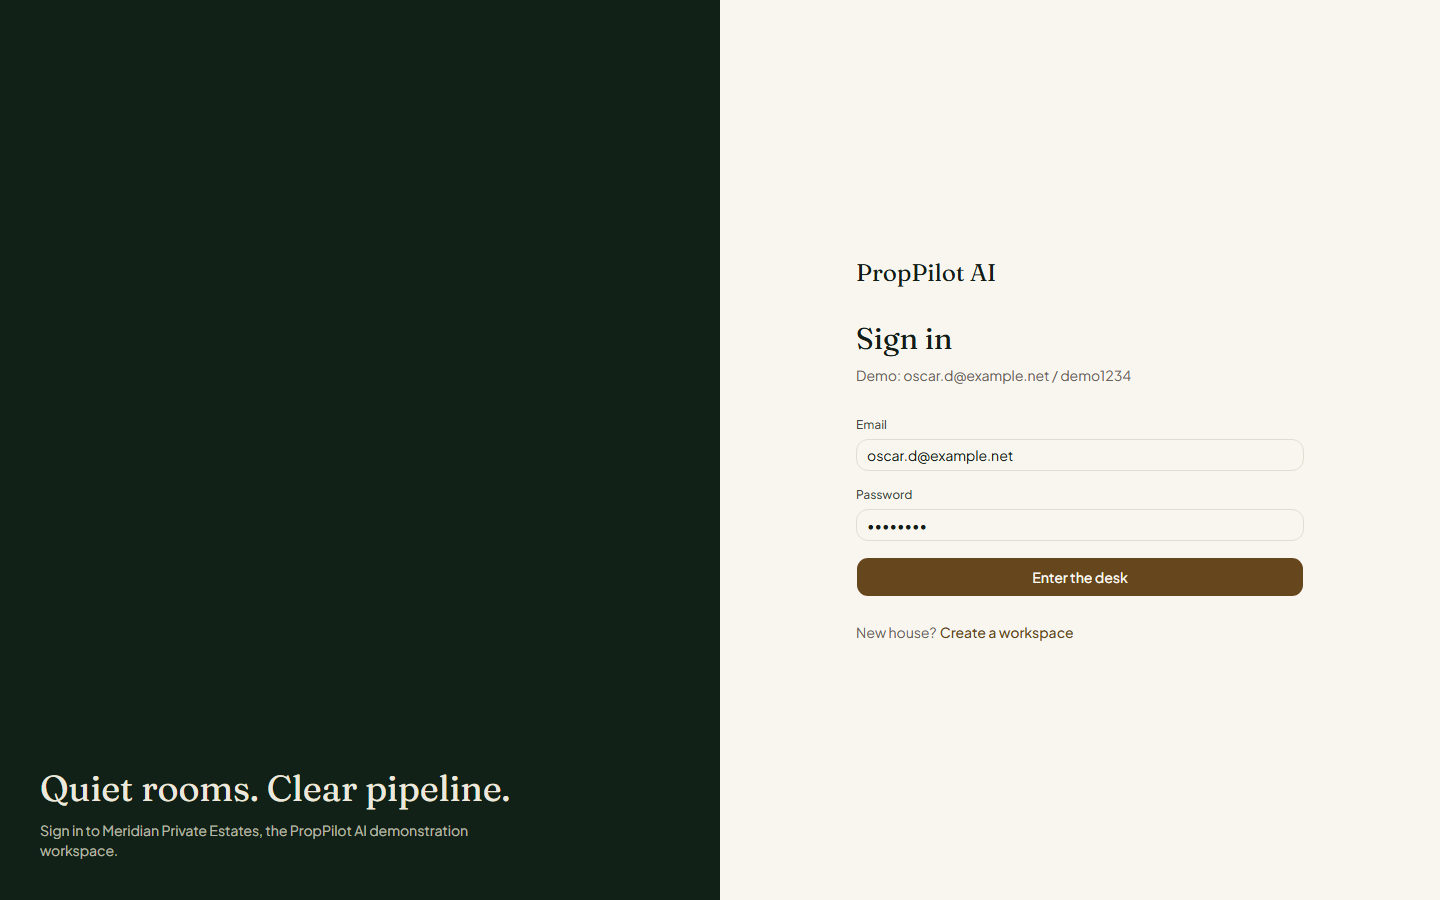
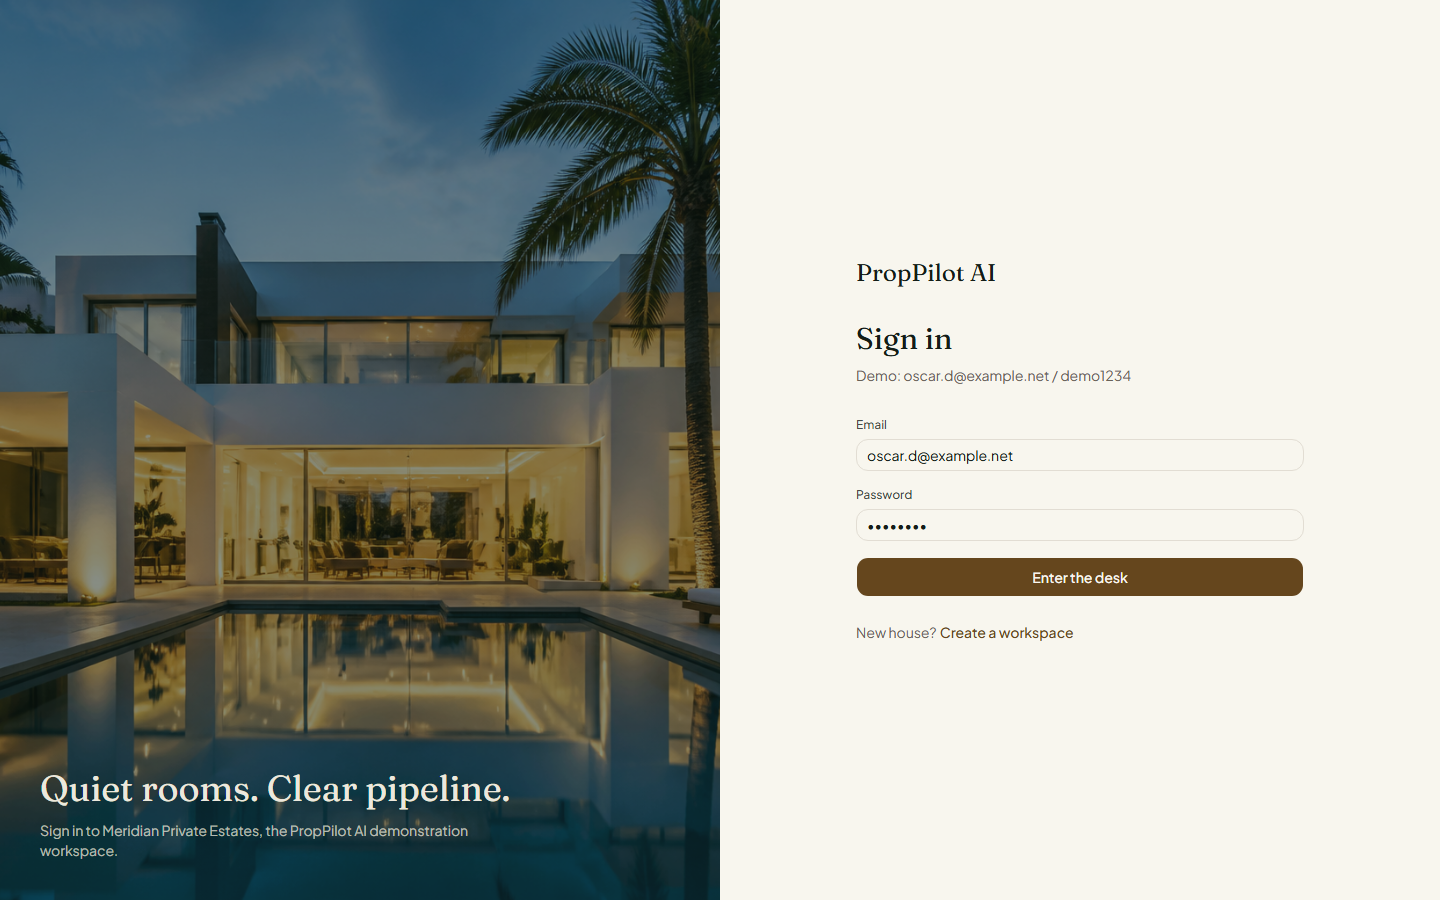
Show listing photography in GitHub screenshots by serving photos locally.

diff --git a/src/lib/demo-data.ts b/src/lib/demo-data.ts
@@ -25,30 +25,14 @@ function iso(daysFromToday: number, hour = 10, minute = 0) {
 }
 
 const PHOTO = [
-  "https://images.unsplash.com/photo-1600596542815-ffad4c1539a9?auto=format&fit=crop&w=1800&q=80",
-  "https://images.unsplash.com/photo-1600585154340-be6161a56a0c?auto=format&fit=crop&w=1800&q=80",
-  "https://images.unsplash.com/photo-1600607687939-ce8a6c25118c?auto=format&fit=crop&w=1800&q=80",
-  "https://images.unsplash.com/photo-1613490493576-7fde63acd811?auto=format&fit=crop&w=1800&q=80",
-  "https://images.unsplash.com/photo-1512917774080-9991f1c4c750?auto=format&fit=crop&w=1800&q=80",
-  "https://images.unsplash.com/photo-1600047509807-ba8f99d2cdbc?auto=format&fit=crop&w=1800&q=80",
-  "https://images.unsplash.com/photo-1600566753190-17f0baa2a6c3?auto=format&fit=crop&w=1800&q=80",
-  "https://images.unsplash.com/photo-1600573472592-401b489a3cdc?auto=format&fit=crop&w=1800&q=80",
-  "https://images.unsplash.com/photo-1600210492486-724fe5c67fb0?auto=format&fit=crop&w=1800&q=80",
-  "https://images.unsplash.com/photo-1560448204-e02f11c3d0e2?auto=format&fit=crop&w=1800&q=80",
-  "https://images.unsplash.com/photo-1502672260266-1c1ef2d93688?auto=format&fit=crop&w=1800&q=80",
-  "https://images.unsplash.com/photo-1605276374104-dee2a0ed3cd6?auto=format&fit=crop&w=1800&q=80",
-  "https://images.unsplash.com/photo-1570129477492-45c003edd2be?auto=format&fit=crop&w=1800&q=80",
-  "https://images.unsplash.com/photo-1580587771525-78b9dba3b914?auto=format&fit=crop&w=1800&q=80",
-  "https://images.unsplash.com/photo-1600047509358-9dc75507daeb?auto=format&fit=crop&w=1800&q=80",
-  "https://images.unsplash.com/photo-1600585154526-990dced4db0d?auto=format&fit=crop&w=1800&q=80",
-  "https://images.unsplash.com/photo-1600607687644-c7171b42498b?auto=format&fit=crop&w=1800&q=80",
-  "https://images.unsplash.com/photo-1600566753086-00f18fb6b3ea?auto=format&fit=crop&w=1800&q=80",
-  "https://images.unsplash.com/photo-1613977257363-707ba9348227?auto=format&fit=crop&w=1800&q=80",
-  "https://images.unsplash.com/photo-1513584684374-8bab748fbf90?auto=format&fit=crop&w=1800&q=80",
-  "https://images.unsplash.com/photo-1600607687920-4e2a09cf159d?auto=format&fit=crop&w=1800&q=80",
-  "https://images.unsplash.com/photo-1600047509782-20d39509f26d?auto=format&fit=crop&w=1800&q=80",
-  "https://images.unsplash.com/photo-1600585154084-4e5fe7c39198?auto=format&fit=crop&w=1800&q=80",
-  "https://images.unsplash.com/photo-1484154218962-a197022b5858?auto=format&fit=crop&w=1800&q=80",
+  "/listings/01.jpg",
+  "/listings/02.jpg",
+  "/listings/03.jpg",
+  "/listings/04.jpg",
+  "/listings/05.jpg",
+  "/listings/06.jpg",
+  "/listings/07.jpg",
+  "/listings/08.jpg",
 ];
 
 const workspace: Workspace = {

diff --git a/src/app/login/page.tsx b/src/app/login/page.tsx
@@ -47,8 +47,7 @@ export default function LoginPage() {
         <div
           className="absolute inset-0 bg-cover bg-center opacity-50"
           style={{
-            backgroundImage:
-              "url(https://images.unsplash.com/photo-1600585154340-be6161a56a0c?auto=format&fit=crop&w=1600&q=80)",
+            backgroundImage: "url(/login-panel.jpg)",
           }}
         />
         <div className="relative flex h-full flex-col justify-end p-10 text-sidebar-foreground">

diff --git a/src/app/page.tsx b/src/app/page.tsx
@@ -13,8 +13,7 @@ import { buttonVariants } from "@/components/ui/button";
 import { cn } from "@/lib/utils";
 import { DEMO_EMAIL, DEMO_PASSWORD } from "@/lib/constants";
 
-const HERO =
-  "https://images.unsplash.com/photo-1600596542815-ffad4c1539a9?auto=format&fit=crop&w=2000&q=80";
+const HERO = "/hero.jpg";
 
 const FEATURES = [
   {

diff --git a/src/lib/constants.ts b/src/lib/constants.ts
@@ -15,7 +15,7 @@ export const APP_TAGLINE = "Private client CRM for modern real estate houses.";
 export const DEMO_EMAIL = "oscar.d@example.net";
 export const DEMO_PASSWORD = "demo1234";
 
-export const SEED_VERSION = 3;
+export const SEED_VERSION = 4;
 
 export const PROPERTY_TYPES = [
   "Apartment",

diff --git a/src/components/properties/property-form-dialog.tsx b/src/components/properties/property-form-dialog.tsx
@@ -76,7 +76,7 @@ export function PropertyFormDialog({
         features,
         currency: "USD",
         imageUrls: [
-          "https://images.unsplash.com/photo-1600585154340-be6161a56a0c?auto=format&fit=crop&w=1800&q=80",
+          "/listings/02.jpg",
         ],
       });
       onSaved?.(id);
